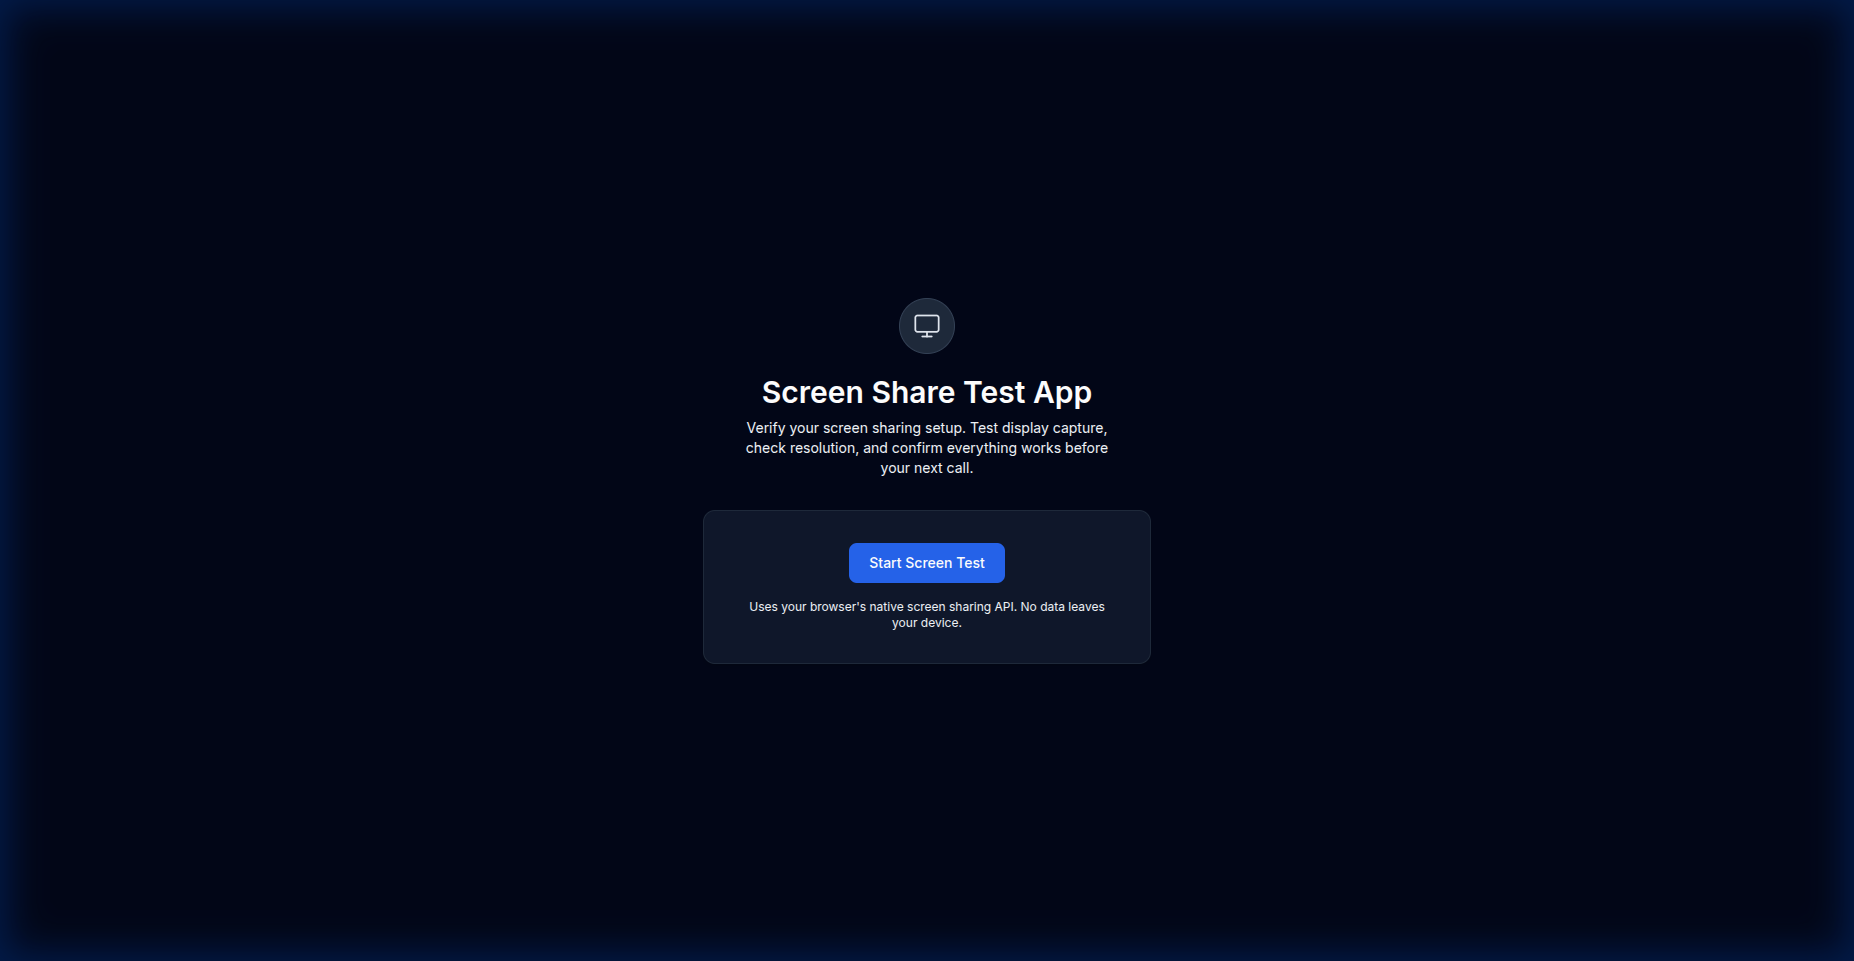
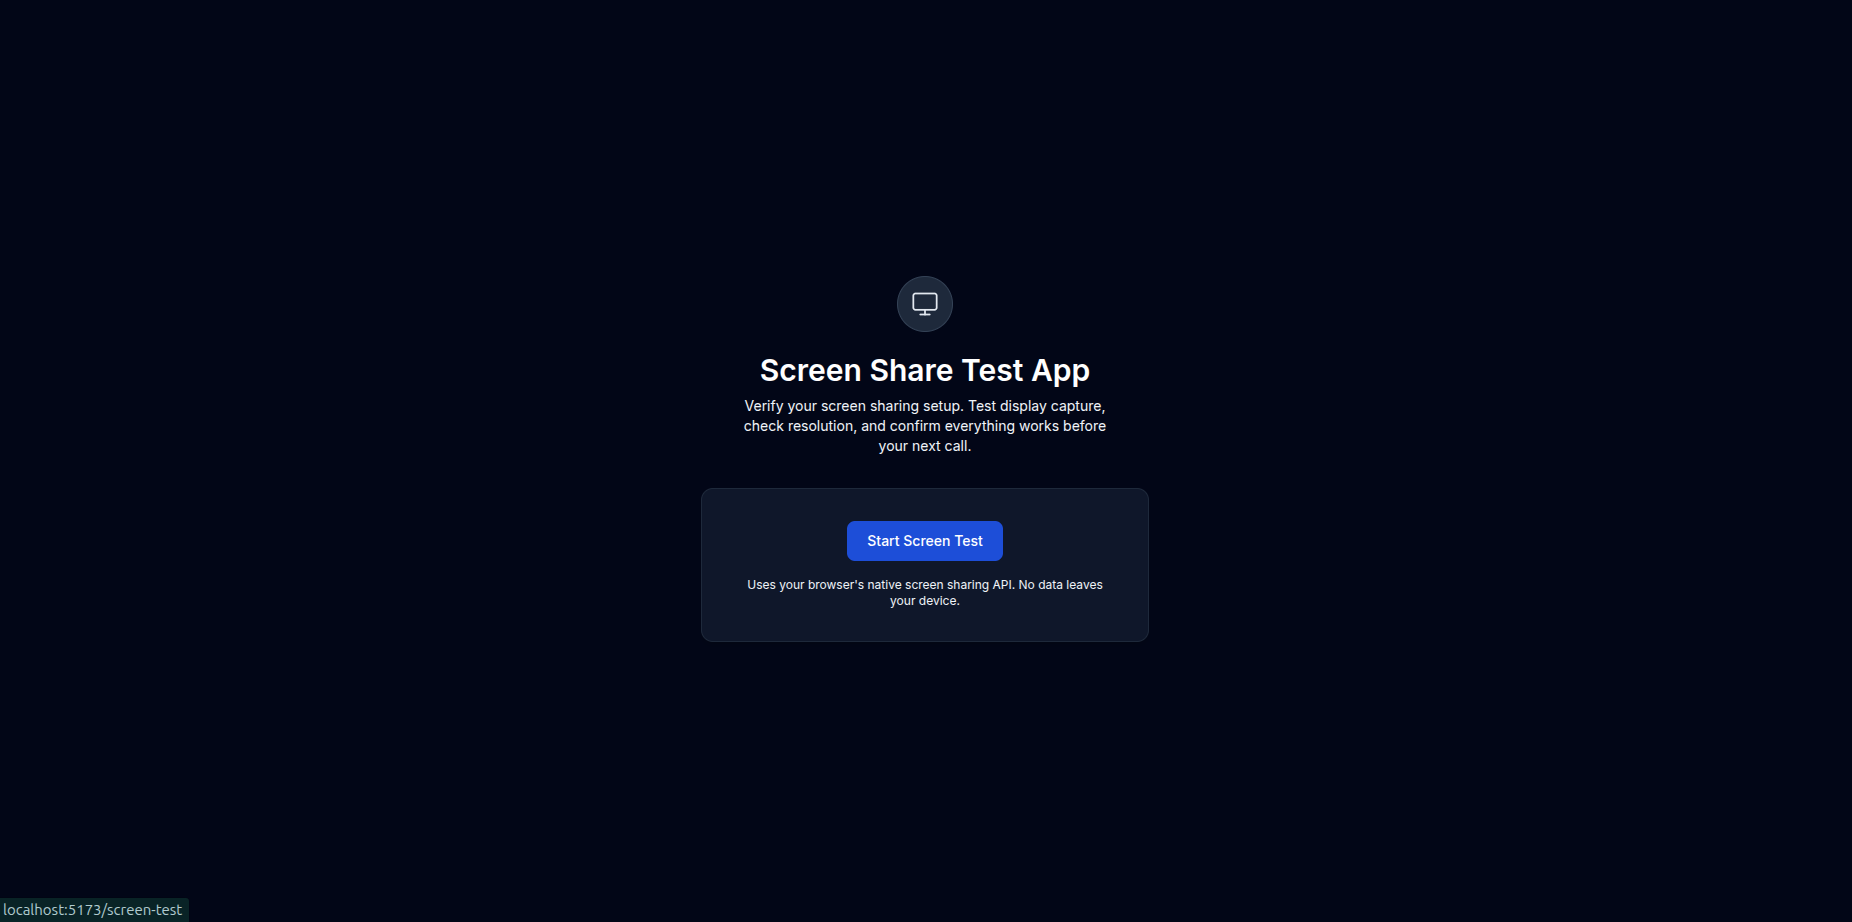
update screenshots with actual app captures

diff --git a/README.md b/README.md
@@ -10,9 +10,17 @@ A lightweight, production-ready React application for testing browser screen sha
 
 ![Home Page](screenshots/home-page.png)
 
-### Screen Test Page (`/screen-test`)
+### Screen Test — Ready to Share (`/screen-test`)
 
 ![Screen Test — Idle State](screenshots/screen-test-idle.png)
+
+### Screen Sharing Active — Live Preview
+
+![Screen Sharing Active](screenshots/screen-sharing-active.png)
+
+### Screen Sharing Stopped — Retry Flow
+
+![Screen Sharing Stopped](screenshots/screen-sharing-stopped.png)
 
 ---
 
